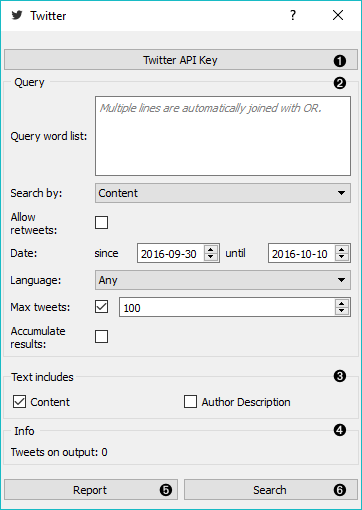
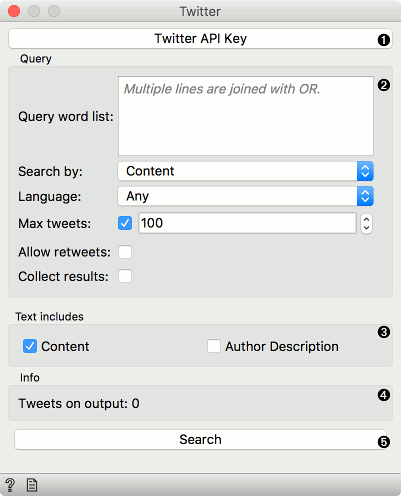
Update Twitter documentation

diff --git a/doc/widgets/twitter.md b/doc/widgets/twitter.md
@@ -1,0 +1,50 @@
+Twitter
+=======
+
+Fetching data from [The Twitter Search API](https://dev.twitter.com/rest/public/search).
+
+**Inputs**
+
+- None
+
+**Outputs**
+
+- Corpus: A collection of tweets from the Twitter API.
+
+**Twitter** widget enables querying tweets through Twitter API. You can query by content, author or both and  accumulate results should you wish to create a larger data set. The widget only supports REST API and allows queries for up to two weeks back.
+
+![](images/Twitter-stamped.png)
+
+1. To begin your queries, insert Twitter key and secret. They are securely saved in your system keyring service (like Credential Vault, Keychain, KWallet, etc.) and won't be deleted when clearing widget settings. You must first create a [Twitter app](https://apps.twitter.com/) to get API keys.
+
+   ![](images/Twitter-key.png)
+
+2. Set query parameters:
+   - *Query word list*: list desired queries, one per line. Queries are automatically joined by OR.
+   - *Search by*: specify whether you want to search by content, author or both. If searching by author, you must enter proper Twitter handle (without @) in the query list.
+   - *Language*: set the language of retrieved tweets. Any will retrieve tweets in any language.
+   - *Max tweets*: set the top limit of retrieved tweets. If box is not ticked, no upper bound will be set - widget will retrieve all available tweets.
+   - *Allow retweets*: if 'Allow retweets' is checked, retweeted tweets will also appear on the output. This might duplicate some results.
+   - *Collect results*: if 'Collect results' is ticked, widget will append new queries to the previous ones. Enter new queries, run *Search* and new results will be appended to the previous ones.
+3. Define which features to include as text features.
+4. Information on the number of tweets on the output.
+5. Run query.
+
+Examples
+--------
+
+First, let's try a simple query. We will search for tweets containing either 'data mining' or 'machine learning' in the content and allow retweets. We will further limit our search to only a 100 tweets in English.
+
+![](images/Twitter-Example1.png)
+
+First, we're checking the output in [Corpus Viewer](corpusviewer.md) to get the initial idea about our results. Then we're preprocessing the tweets with lowercase, url removal, tweet tokenizer and removal of stopword and punctuation. The best way to see the results is with [Word Cloud](wordcloud). This will display the most popular words in field of data mining and machine learning in the past two weeks.
+
+Our next example is a bit more complex. We're querying tweets from Hillary Clinton and Donald Trump from the presidential campaign 2016.
+
+![](images/Twitter-Example2.png)
+
+Then we've used [Preprocess Text](preprocesstext.md) to get suitable tokens on our output. We've connected **Preprocess Text** to [Bag of Words](bagofwords.md) in order to create a table with words as features and their counts as values. A quick check in **Word Cloud** gives us an idea about the results.
+
+Now we would like to predict the author of the tweet. With **Select Columns** we're setting 'Author' as our target variable. Then we connect **Select Columns** to **Test & Score**. We'll be using **Logistic Regression** as our learner, which we also connect to **Test & Score**.
+
+We can observe the results of our author predictions directly in the widget. AUC score is quite ok. Seems like we can to some extent predict who is the author of the tweet based on the tweet content.
